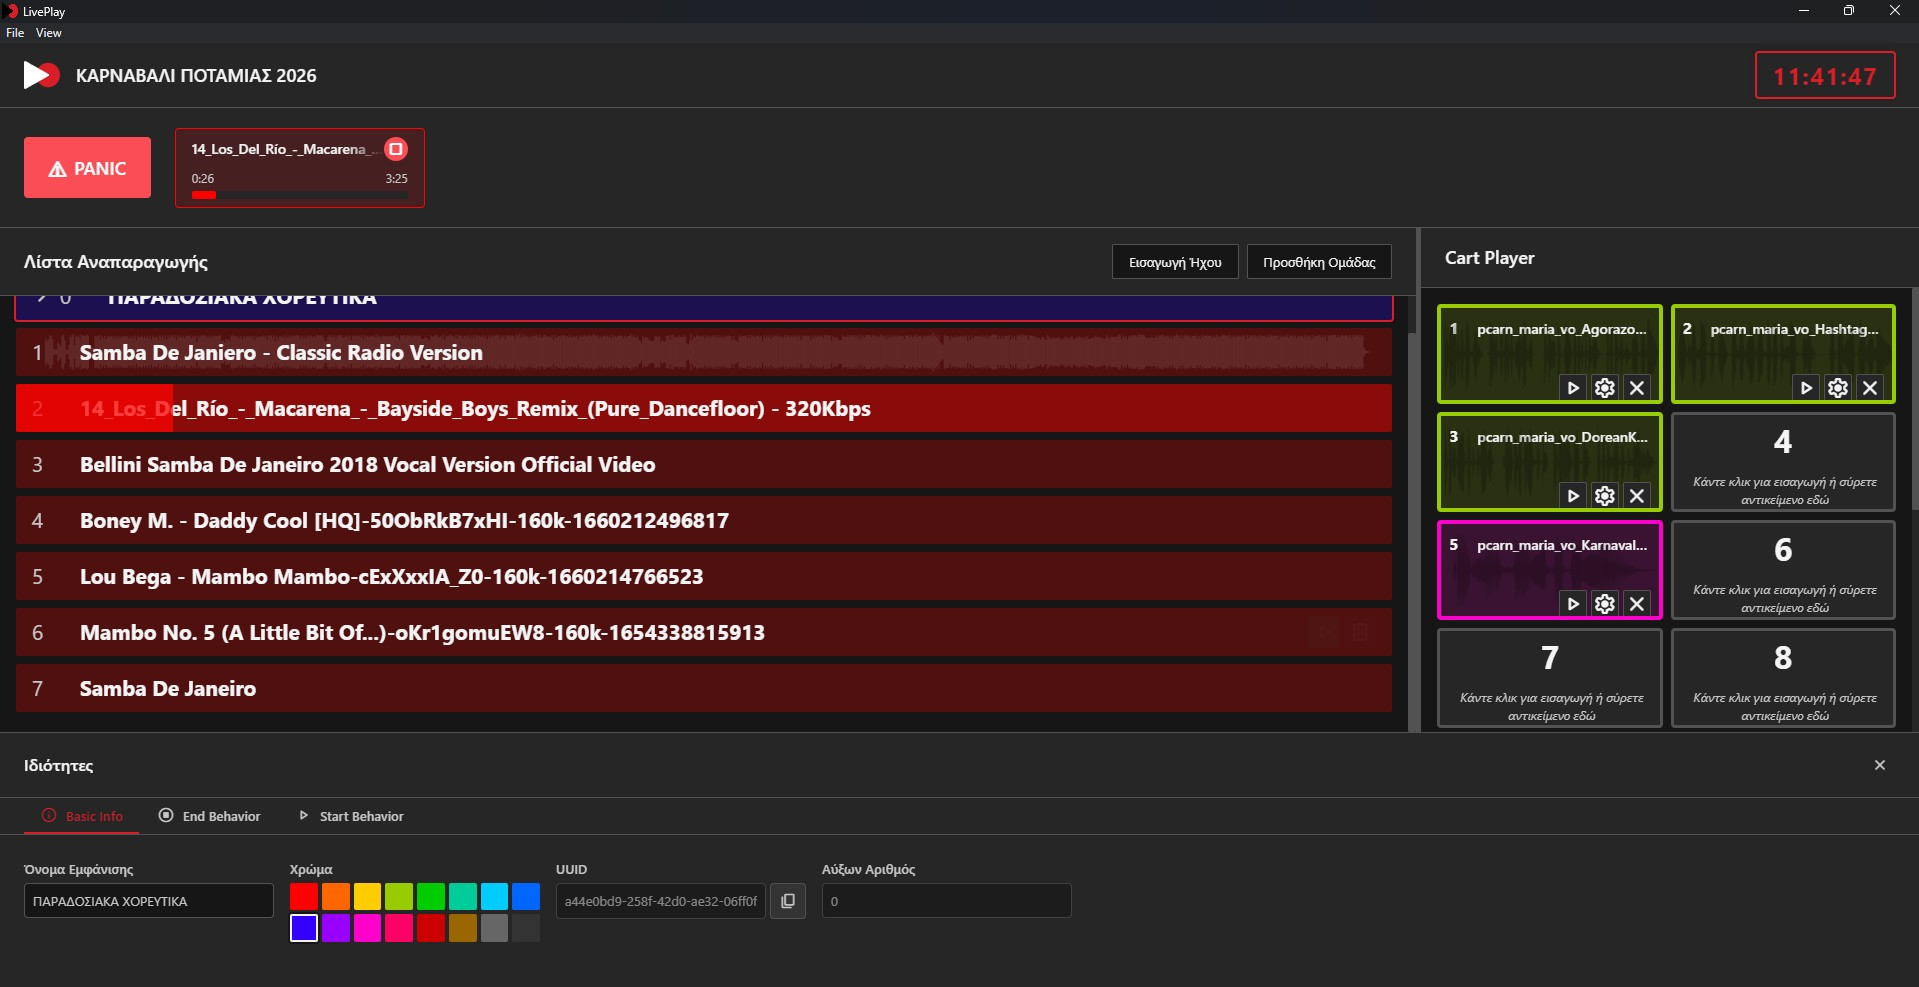
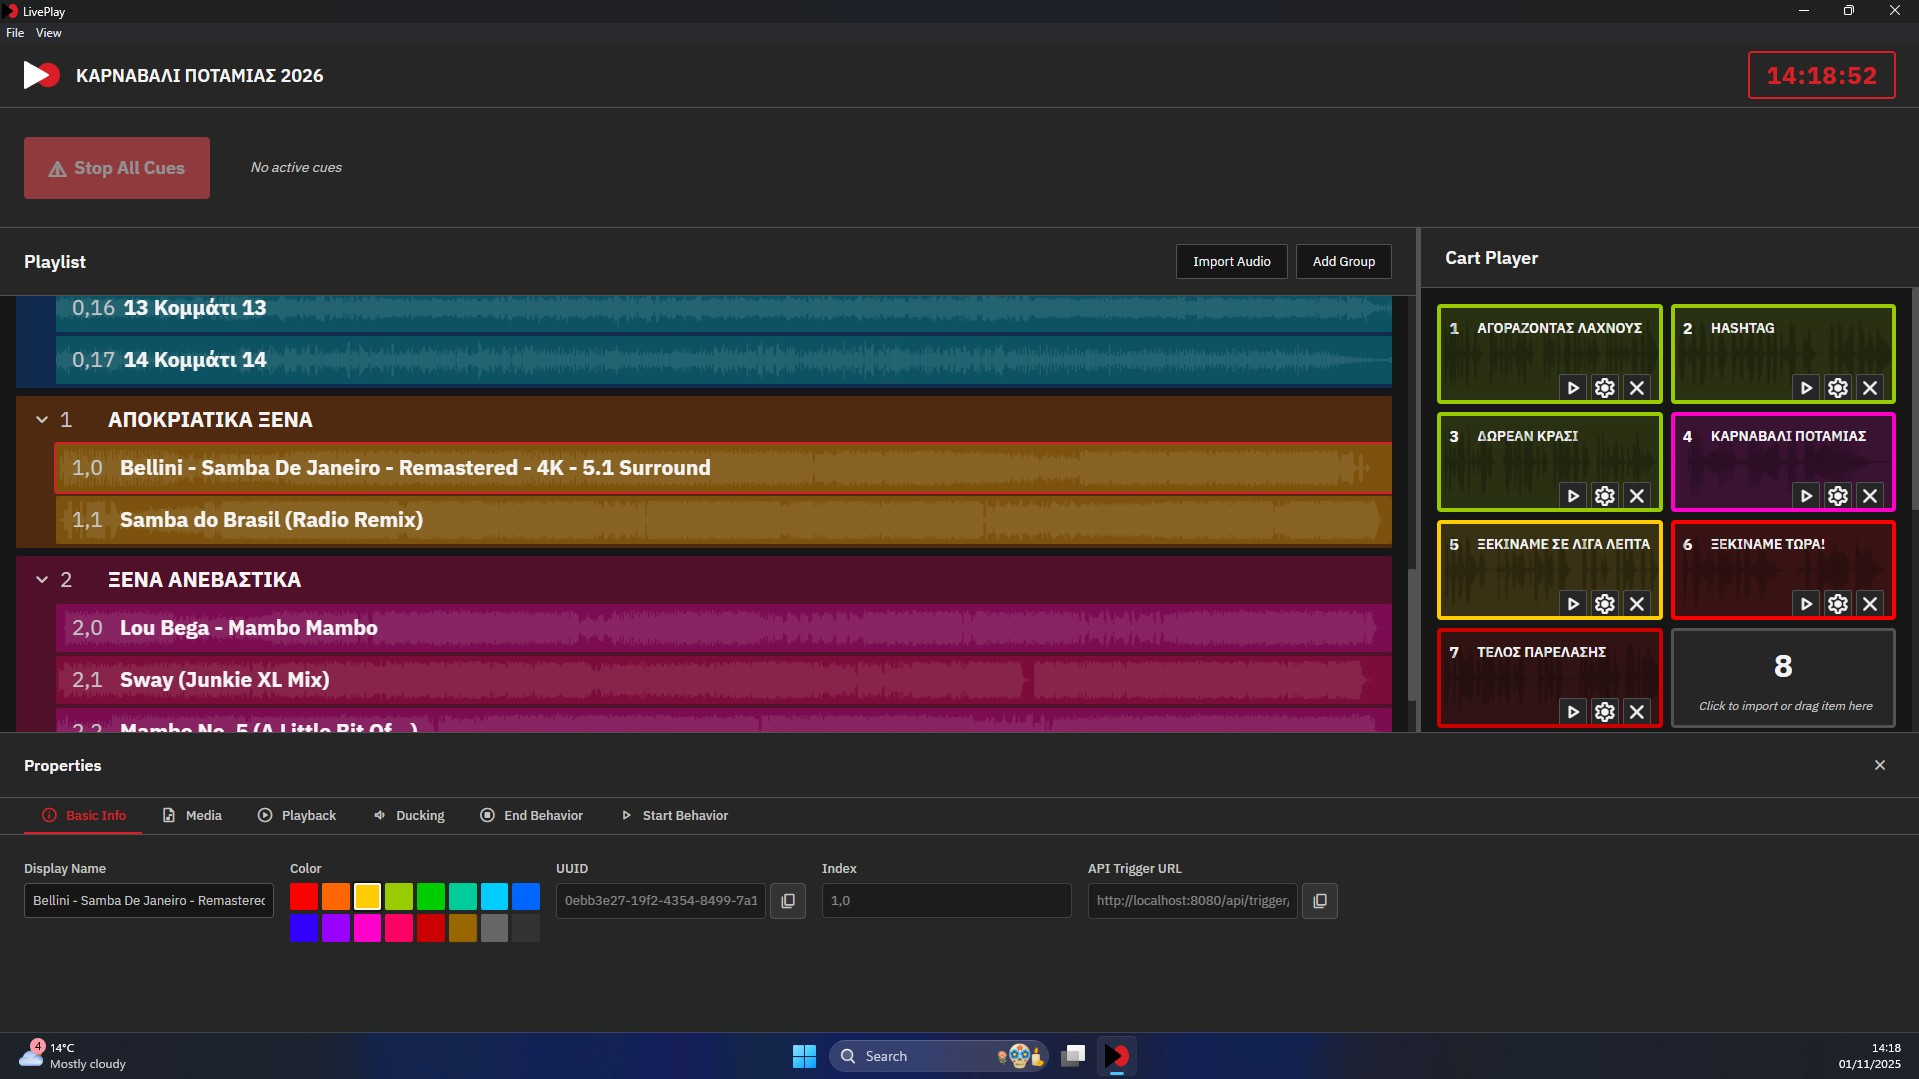
fix: fixed a bug where new groups were not working correctly

diff --git a/components/PropertiesPanel.vue b/components/PropertiesPanel.vue
@@ -222,17 +222,17 @@ interface Tab {
   audioOnly?: boolean;
 }
 
-const allTabs: Tab[] = [
+const allTabs = computed<Tab[]>(() => [
   { id: 'basic', label: t('properties.basicInfo'), icon: 'info' },
   { id: 'media', label: t('properties.media'), icon: 'audio_file', audioOnly: true },
   { id: 'playback', label: t('properties.playback'), icon: 'play_circle', audioOnly: true },
   { id: 'ducking', label: t('properties.ducking'), icon: 'volume_down', audioOnly: true },
   { id: 'endBehavior', label: t('properties.endBehavior'), icon: 'stop_circle' },
   { id: 'startBehavior', label: t('properties.startBehavior'), icon: 'play_arrow' }
-];
+]);
 
 const availableTabs = computed(() => {
-  return allTabs.filter(tab => !tab.audioOnly || selectedItem.value?.type === 'audio');
+  return allTabs.value.filter(tab => !tab.audioOnly || selectedItem.value?.type === 'audio');
 });
 
 // Computed properties for behavior fields

diff --git a/components/PlaylistView.vue b/components/PlaylistView.vue
@@ -191,7 +191,8 @@ const handleAddGroup = () => {
     uuid: uuidv4(),
     index: [currentProject.value.items.length],
     displayName: 'New Group',
-    type: 'group'
+    type: 'group',
+    children: [] // Create a new array for each group to avoid shared references
   } as GroupItem;
 
   addItem(groupItem);
